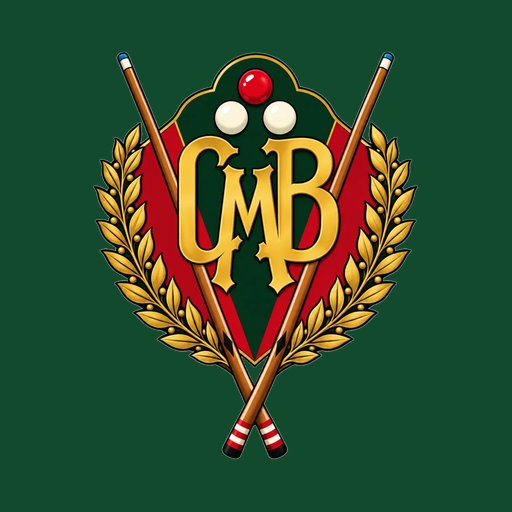
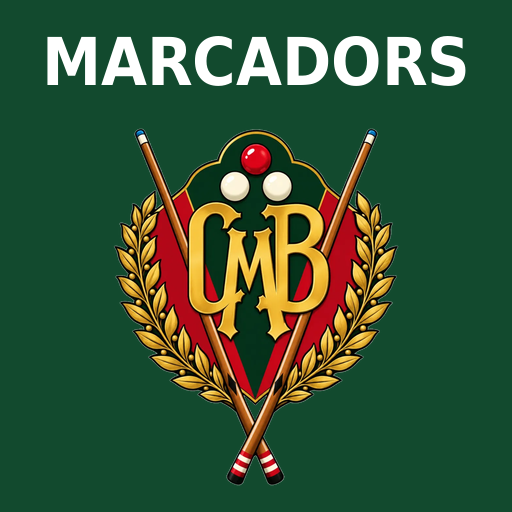
App instal·lada: nom MARCADORS i icona amb el text sobre l'escut
Claude-Session: https://claude.ai/code/session_017rUCX2SppPiZ3akLFCT4ss

diff --git a/taules/index.html b/taules/index.html
@@ -3,13 +3,13 @@
 <head>
 <meta charset="utf-8">
 <meta name="viewport" content="width=device-width,initial-scale=1,viewport-fit=cover">
-<title>TAULES</title>
+<title>MARCADORS</title>
 <link rel="manifest" href="manifest.webmanifest">
 <link rel="icon" type="image/png" href="favicon.png">
 <link rel="apple-touch-icon" href="apple-touch-icon.png">
 <meta name="apple-mobile-web-app-capable" content="yes">
 <meta name="mobile-web-app-capable" content="yes">
-<meta name="apple-mobile-web-app-title" content="TAULES">
+<meta name="apple-mobile-web-app-title" content="MARCADORS">
 <meta name="theme-color" content="#124a2e">
 <link rel="stylesheet" href="https://fonts.googleapis.com/css2?family=Barlow+Condensed:wght@600;700;800&family=Source+Sans+3:wght@400;600;700&display=swap">
 <style>
